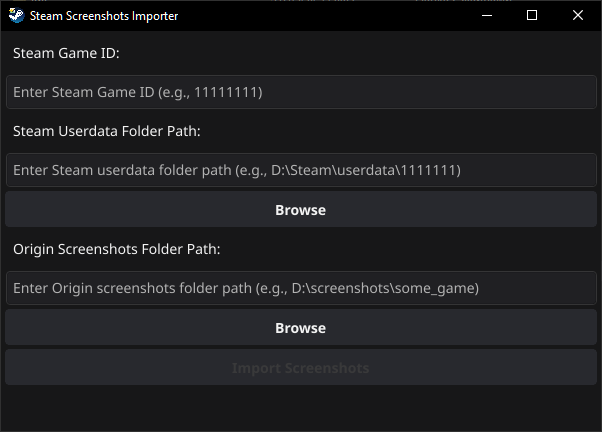
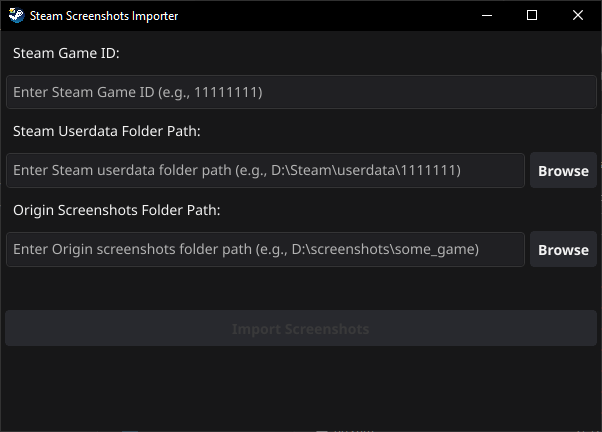
Update UI, readme

diff --git a/main.go b/main.go
@@ -14,6 +14,7 @@ import (
 	"fyne.io/fyne/v2/app"
 	"fyne.io/fyne/v2/container"
 	"fyne.io/fyne/v2/dialog"
+	"fyne.io/fyne/v2/layout"
 	"fyne.io/fyne/v2/widget"
 	"github.com/ncruces/zenity"
 	"github.com/nfnt/resize"
@@ -63,7 +64,21 @@ func main() {
 	}
 
 	steamUserdataBrowseButton := widget.NewButton("Browse", openFolderDialog(steamUserdataPathEntry))
+	steamUserdataBrowseButton.Resize(fyne.NewSize(80, 30))
 	originScreenshotsBrowseButton := widget.NewButton("Browse", openFolderDialog(originScreenshotsPathEntry))
+	originScreenshotsBrowseButton.Resize(fyne.NewSize(80, 30))
+
+	steamUserdataRow := container.New(
+		layout.NewBorderLayout(nil, nil, nil, steamUserdataBrowseButton),
+		steamUserdataBrowseButton,
+		steamUserdataPathEntry,
+	)
+
+	originScreenshotsRow := container.New(
+		layout.NewBorderLayout(nil, nil, nil, originScreenshotsBrowseButton),
+		originScreenshotsBrowseButton,
+		originScreenshotsPathEntry,
+	)
 
 	importButton := widget.NewButton("Import Screenshots", func() {
 		steamGameID := steamGameIDEntry.Text
@@ -118,11 +133,10 @@ func main() {
 		widget.NewLabel("Steam Game ID:"),
 		steamGameIDEntry,
 		widget.NewLabel("Steam Userdata Folder Path:"),
-		steamUserdataPathEntry,
-		steamUserdataBrowseButton,
+		steamUserdataRow,
 		widget.NewLabel("Origin Screenshots Folder Path:"),
-		originScreenshotsPathEntry,
-		originScreenshotsBrowseButton,
+		originScreenshotsRow,
+		widget.NewLabel(""),
 		importButton,
 	)
 

diff --git a/README.md b/README.md
@@ -23,6 +23,3 @@ fyne package -os windows -icon .\Icon.png
 
 # Limitations
 - Currently available for windows only, compatibility with linux and macos has not been tested, but you can check it yourself and send Pull Request with improvements!
-
-# Roadmap
-- Make the UI more user-friendly

diff --git a/CHANGELOG.md b/CHANGELOG.md
@@ -1,5 +1,9 @@
 # Changelog
 
+# v0.0.3
+- Move the "Browse" buttons to the right side
+- Add distance in front of the "import" button
+
 # v0.0.2
 - Changed application name
 - Removed check for maximum game ID length, but it is now limited to int number (19 characters).
